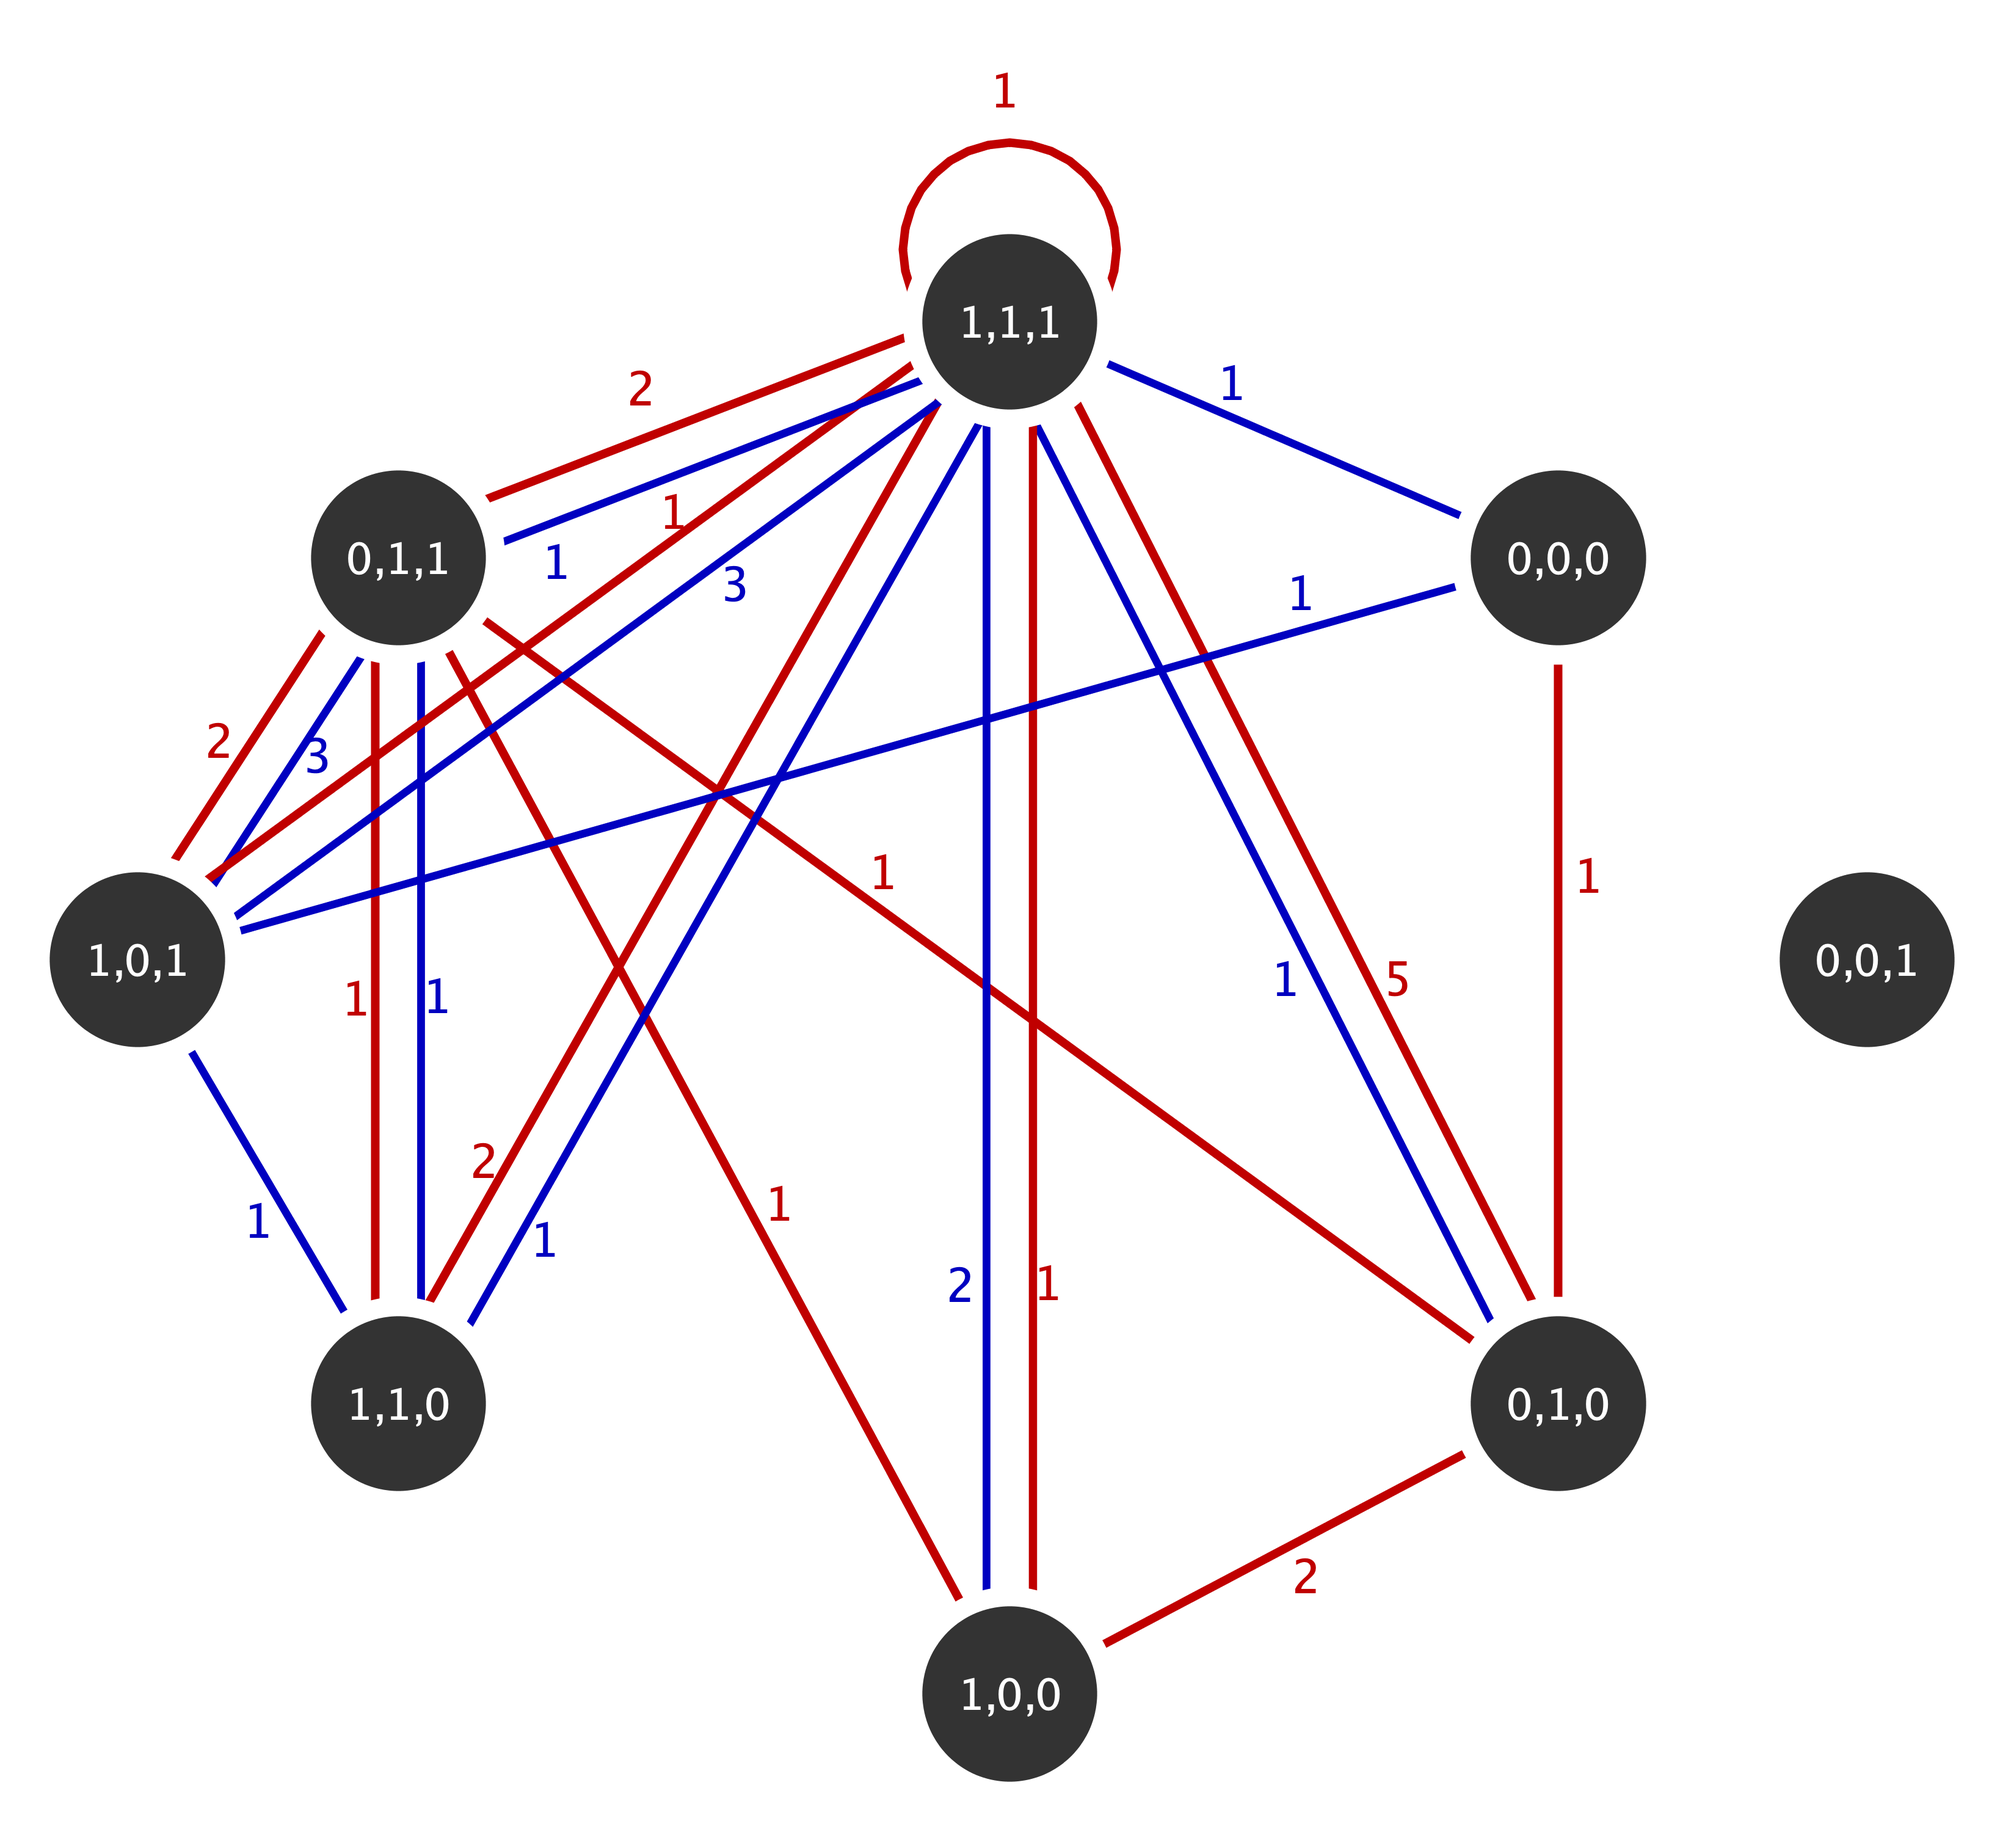
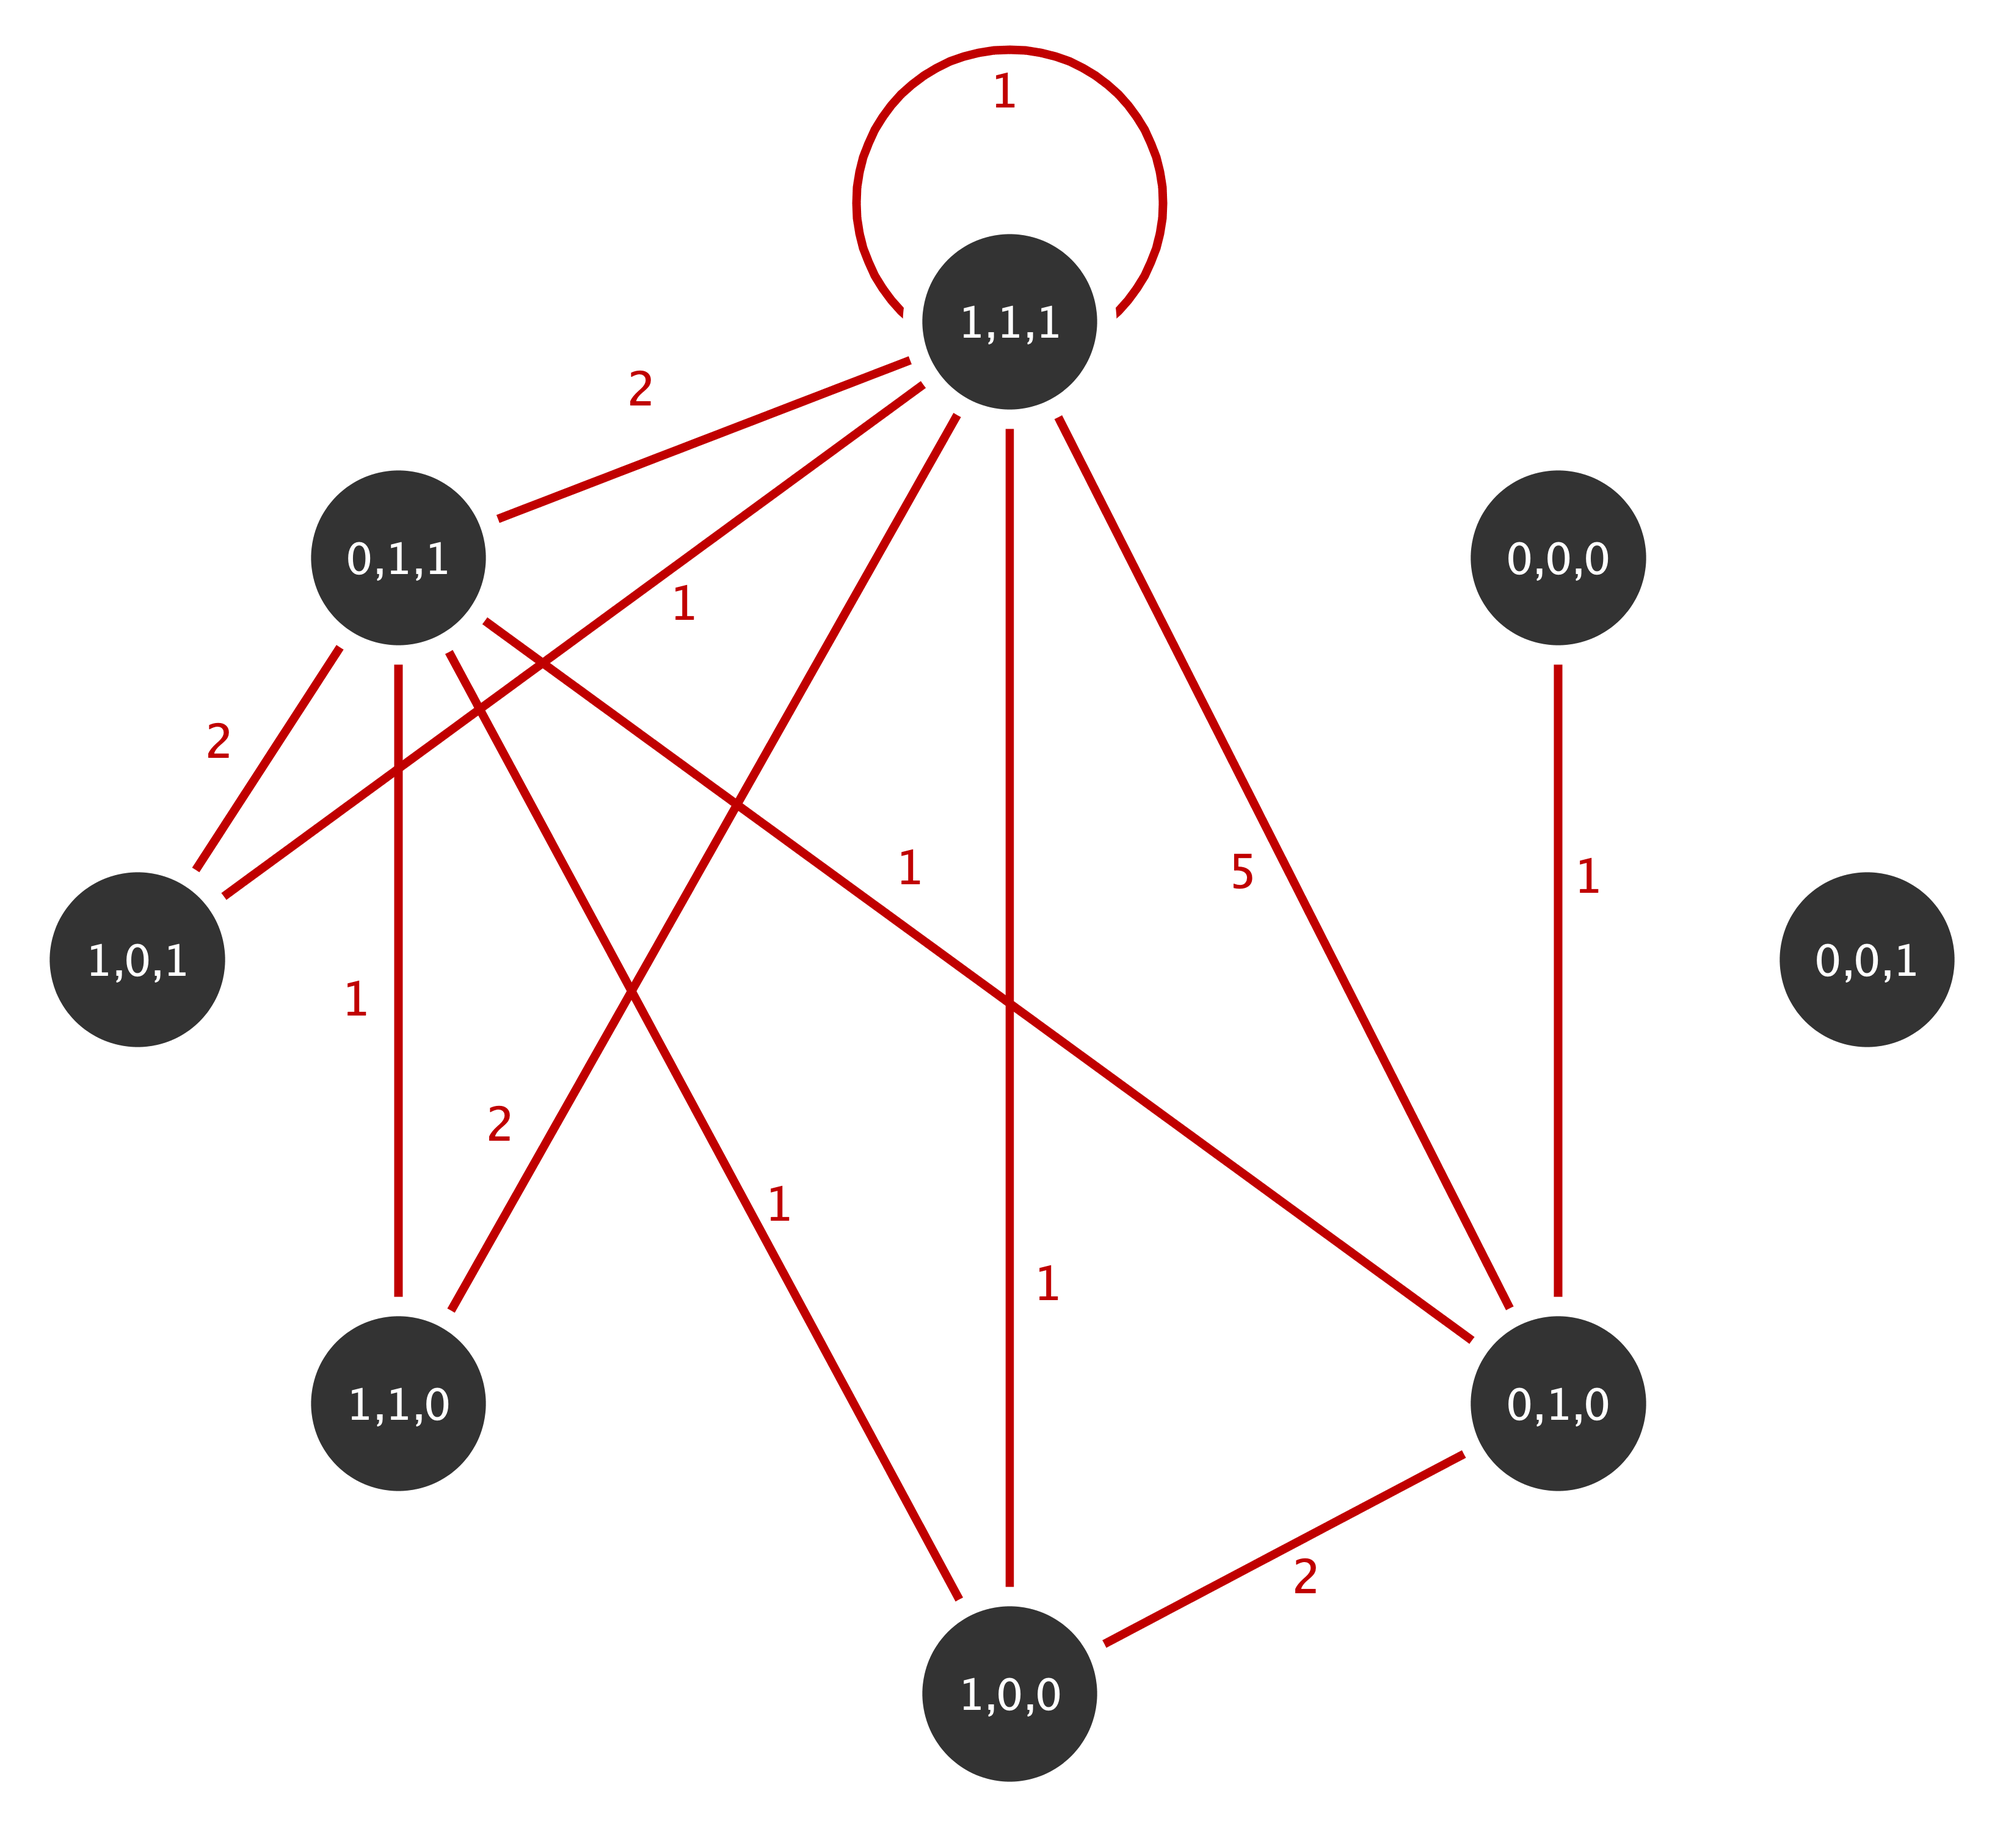
README updated

diff --git a/README.md b/README.md
@@ -384,19 +384,46 @@ model and under IEA models (this can be checked and verified using
 
 Non-rejection of the null implies that the approximations fit the data,
 thus implying that above statistics under the IEA models can be used to
-further analyze the observed network. Consider the following multigraphs
-from the well known Florentine family network with financial (blue) and
-marital (red ties). This multigraphs is aggregated based on the three
-actor attributes wealth (W), number of priorates (P) and total number of
-ties (T) which are all dichotomised to reflect high or low economic,
-political and social influence (details on the aggregation can be found
-in Shafie, 2015):
+further analyze the observed network. Consider the following multigraph
+from the well known Florentine family network with marital. This
+multigraphs is aggregated based on the three actor attributes wealth
+(W), number of priorates (P) and total number of ties (T) which are all
+dichotomised to reflect high or low economic, political and social
+influence (details on the aggregation can be found in Shafie, 2015):
 
 <div class="center">
 
 <img src="man/figures/mg_flor.png" width = 400 px/>
 
 </div>
+
+The multiplicity sequence represented as an upper triangular matrix for
+this mutigrpah is given by
+
+``` r
+flor_m <- t(matrix(c (0, 0,  1, 0,  0,  0,  0,  0,
+                       0,   0,  0,  0,  0,  0,  0,  0,
+                       0,   0,  0,  2,  0,  0,  1,  5,
+                       0,   0,  0,  0,  0,  0,  1,  1,
+                       0,   0,  0,  0,  0,  0,  1,  2,
+                       0,   0,  0,  0,  0,  0,  2,  1,
+                       0,   0,  0,  0,  0,  0,  0,  2,
+                       0,   0,  0,  0,  0,  0,  0,  1), nrow= 8, ncol=8))
+```
+
+The equivalence of adjacency matrix for the multigraph is given by
+
+``` r
+flor_adj <- flor_m+t(flor_m)
+```
+
+with the diagonal double counted (Shafie, 2016). The function
+`get_degree_seq` can now be used to find the degree sequence for this
+multigraph:
+
+``` r
+flor_d <- get_degree_seq(adj = flor_adj, type = 'multigraph')
+```
 
 ## Theoretical Background
 
